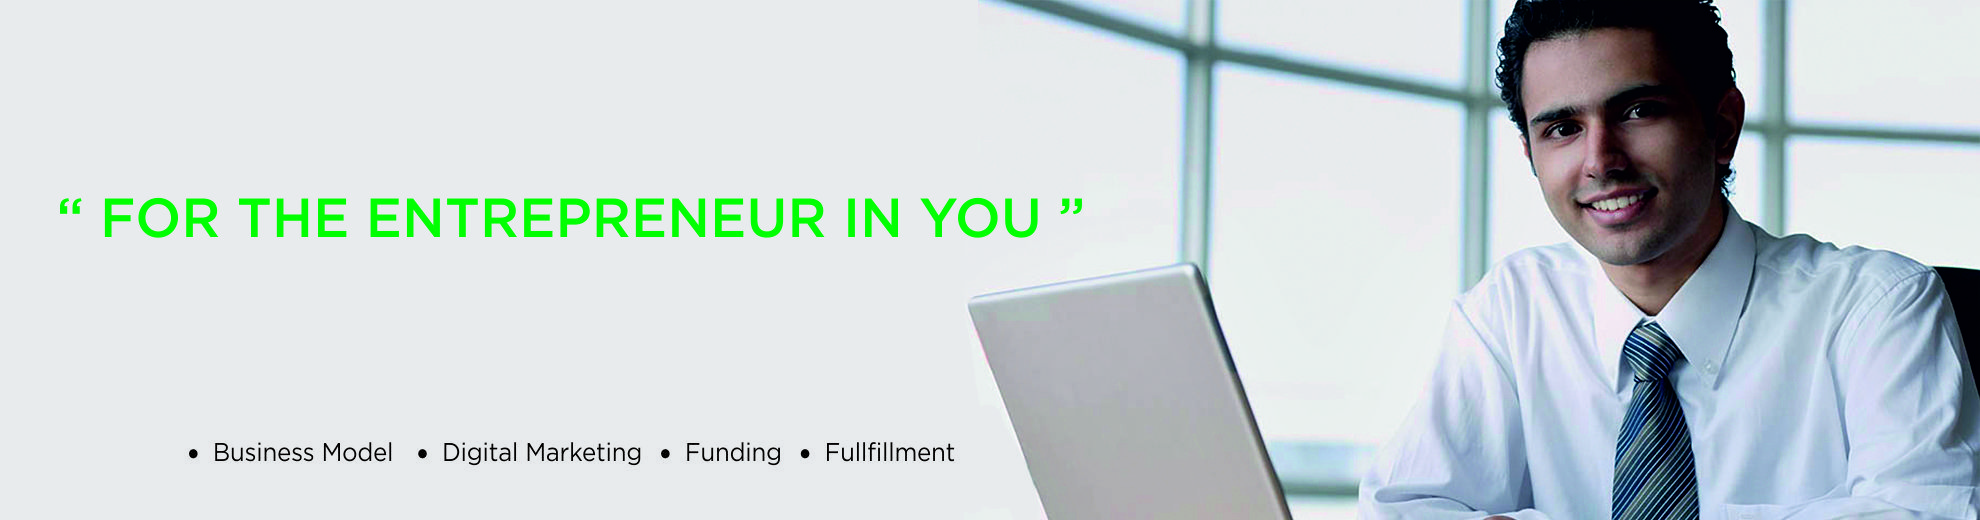
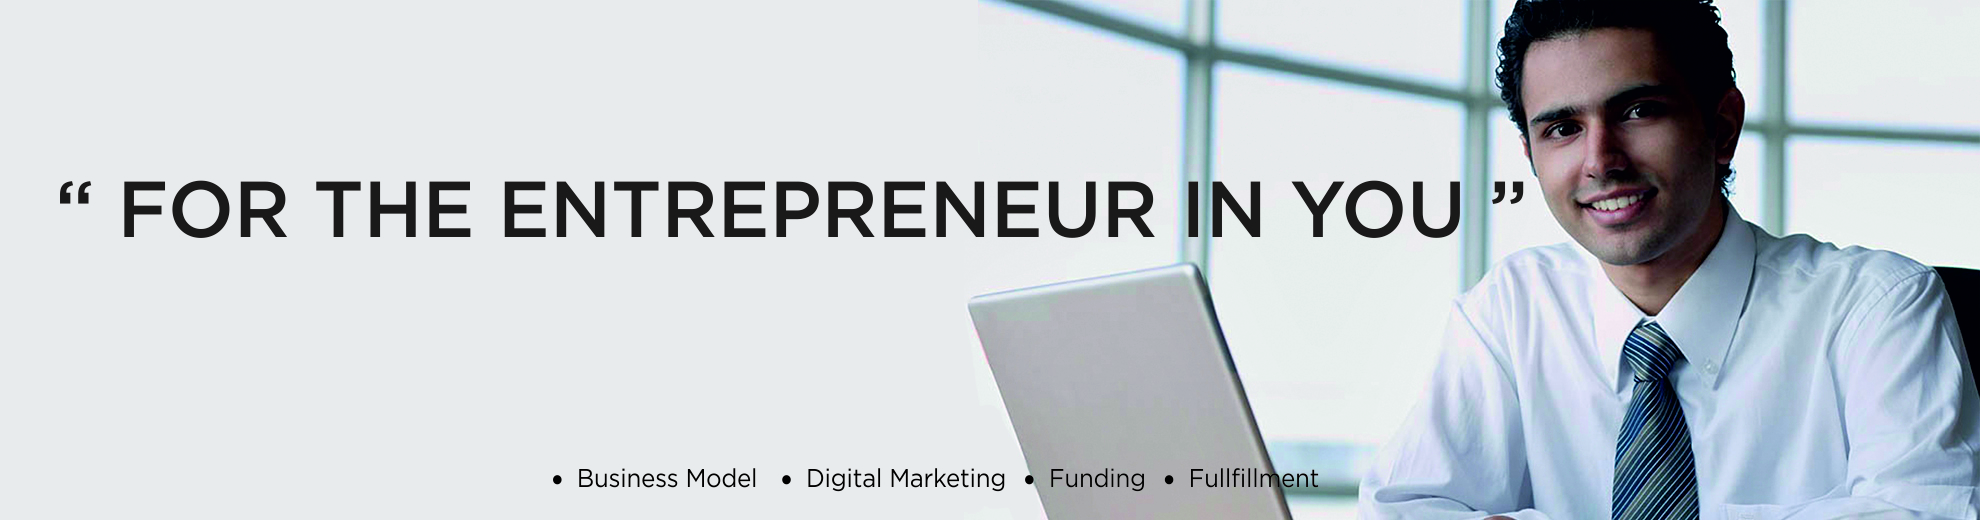
Fixes

Changed region(s): [[0.0308, 0.3385, 0.7702, 0.4615], [0.0924, 0.8308, 0.6778, 0.9538]]

diff --git a/static/sass/_default.scss b/static/sass/_default.scss
@@ -434,10 +434,12 @@ header.global.slim {
     float: none !important;
     width: 98.15254% !important;
     text-align: center;
+    min-height: 105px !important;
+    padding: 10px 30px !important;
 
     hgroup {
       text-align: center !important;
-
+      padding-bottom: 0px !important;
       h1 {
         text-align: center !important;
         font-size: 2.7em !important;
